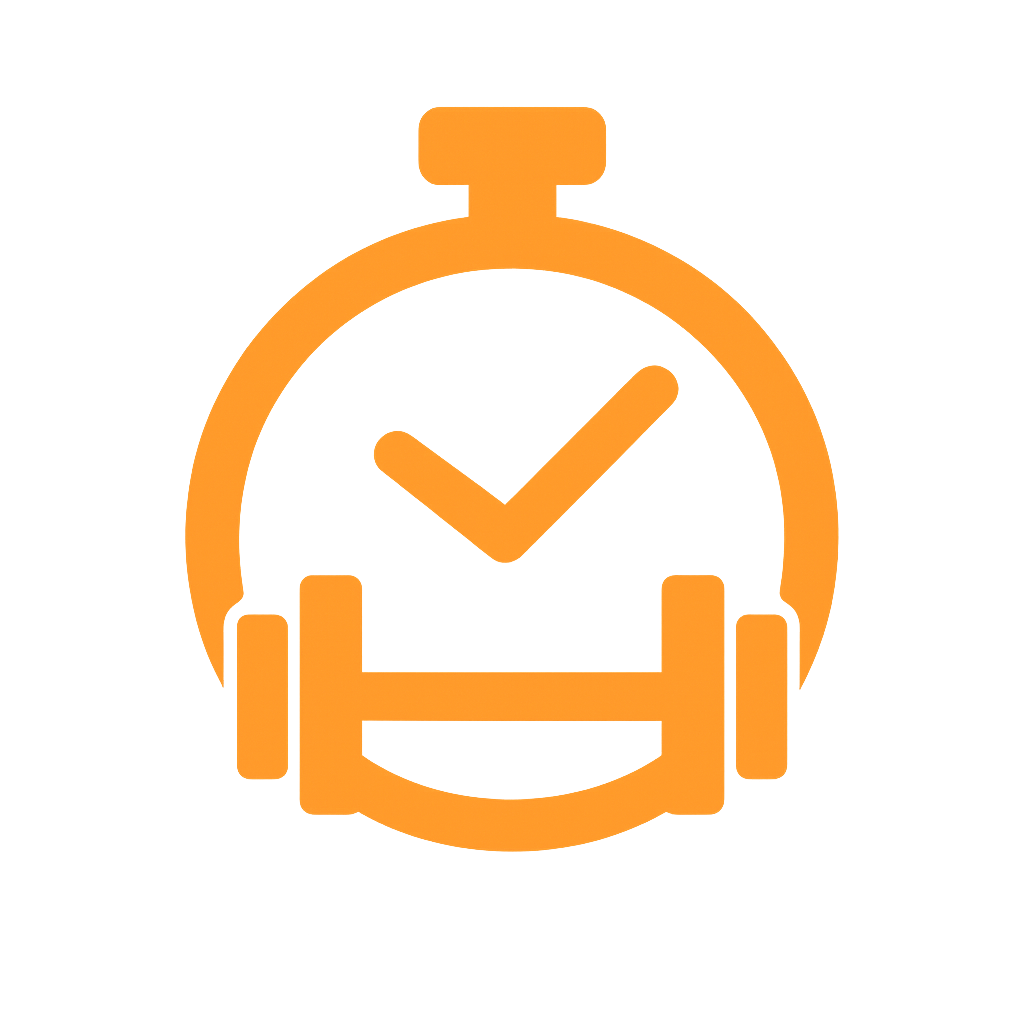
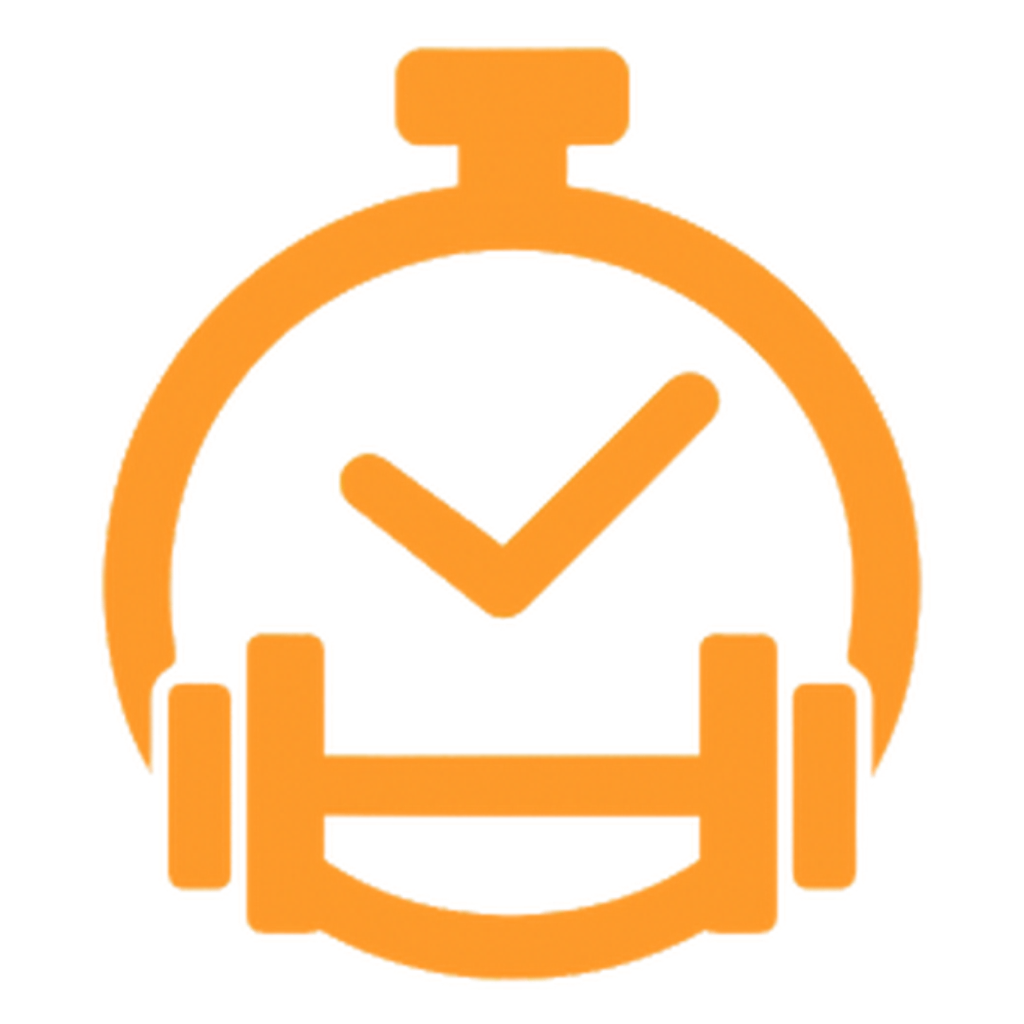
Cambio icono

Changed region(s): [[0.0938, 0.0312, 0.9062, 0.9688]]

diff --git a/create_untitled_icon.py b/create_untitled_icon.py
@@ -1,0 +1,121 @@
+#!/usr/bin/env python3
+"""
+Script para crear el icono Untitled Image - CrossFit Timer
+Cronómetro naranja con pesas
+"""
+
+from PIL import Image, ImageDraw
+import math
+
+def create_crossfit_timer_icon():
+    # Crear imagen 1024x1024 con fondo transparente
+    size = 1024
+    img = Image.new('RGBA', (size, size), (0, 0, 0, 0))
+    draw = ImageDraw.Draw(img)
+    
+    # Color naranja principal
+    orange = (255, 146, 43)  # #ff922b
+    orange_dark = (230, 120, 30)  # versión más oscura
+    white = (255, 255, 255)
+    
+    # Centro de la imagen
+    center_x, center_y = size // 2, size // 2
+    
+    # 1. Dibujar el cronómetro principal (círculo grande)
+    main_radius = 350
+    # Borde exterior del cronómetro
+    draw.ellipse([center_x - main_radius, center_y - main_radius, 
+                  center_x + main_radius, center_y + main_radius], 
+                 fill=orange, outline=orange_dark, width=8)
+    
+    # Interior blanco del cronómetro
+    inner_radius = 280
+    draw.ellipse([center_x - inner_radius, center_y - inner_radius,
+                  center_x + inner_radius, center_y + inner_radius],
+                 fill=white, outline=white)
+    
+    # 2. Dibujar el botón superior del cronómetro
+    button_width = 80
+    button_height = 120
+    button_top = center_y - main_radius - button_height + 20
+    draw.rounded_rectangle([center_x - button_width//2, button_top,
+                           center_x + button_width//2, button_top + button_height],
+                          radius=15, fill=orange, outline=orange_dark, width=4)
+    
+    # 3. Dibujar las manecillas del reloj (check mark / V)
+    # Manecilla corta (hacia abajo-derecha)
+    start_x, start_y = center_x - 60, center_y + 20
+    end_x, end_y = center_x, center_y + 80
+    draw.line([start_x, start_y, end_x, end_y], fill=orange, width=25)
+    
+    # Manecilla larga (hacia arriba-derecha) 
+    start_x, start_y = center_x, center_y + 80
+    end_x, end_y = center_x + 120, center_y - 40
+    draw.line([start_x, start_y, end_x, end_y], fill=orange, width=25)
+    
+    # 4. Dibujar las pesas (mancuernas) a los lados
+    # Pesa izquierda
+    weight_y = center_y + 200
+    weight_left_x = center_x - 280
+    
+    # Barra de la pesa izquierda
+    bar_width = 120
+    bar_height = 25
+    draw.rounded_rectangle([weight_left_x - bar_width//2, weight_y - bar_height//2,
+                           weight_left_x + bar_width//2, weight_y + bar_height//2],
+                          radius=8, fill=orange, outline=orange_dark, width=3)
+    
+    # Discos de la pesa izquierda
+    disc_radius = 45
+    # Disco izquierdo
+    draw.rounded_rectangle([weight_left_x - bar_width//2 - disc_radius, weight_y - disc_radius,
+                           weight_left_x - bar_width//2 + 15, weight_y + disc_radius],
+                          radius=8, fill=orange, outline=orange_dark, width=3)
+    # Disco derecho
+    draw.rounded_rectangle([weight_left_x + bar_width//2 - 15, weight_y - disc_radius,
+                           weight_left_x + bar_width//2 + disc_radius, weight_y + disc_radius],
+                          radius=8, fill=orange, outline=orange_dark, width=3)
+    
+    # Pesa derecha (simétrica)
+    weight_right_x = center_x + 280
+    
+    # Barra de la pesa derecha
+    draw.rounded_rectangle([weight_right_x - bar_width//2, weight_y - bar_height//2,
+                           weight_right_x + bar_width//2, weight_y + bar_height//2],
+                          radius=8, fill=orange, outline=orange_dark, width=3)
+    
+    # Discos de la pesa derecha
+    # Disco izquierdo
+    draw.rounded_rectangle([weight_right_x - bar_width//2 - disc_radius, weight_y - disc_radius,
+                           weight_right_x - bar_width//2 + 15, weight_y + disc_radius],
+                          radius=8, fill=orange, outline=orange_dark, width=3)
+    # Disco derecho
+    draw.rounded_rectangle([weight_right_x + bar_width//2 - 15, weight_y - disc_radius,
+                           weight_right_x + bar_width//2 + disc_radius, weight_y + disc_radius],
+                          radius=8, fill=orange, outline=orange_dark, width=3)
+    
+    # 5. Agregar algunos detalles del cronómetro
+    # Pequeños marcadores en el borde
+    for i in range(12):
+        angle = i * 30 * math.pi / 180  # cada 30 grados
+        x1 = center_x + (inner_radius - 20) * math.cos(angle)
+        y1 = center_y + (inner_radius - 20) * math.sin(angle)
+        x2 = center_x + (inner_radius - 40) * math.cos(angle)
+        y2 = center_y + (inner_radius - 40) * math.sin(angle)
+        draw.line([x1, y1, x2, y2], fill=orange, width=8)
+    
+    return img
+
+if __name__ == "__main__":
+    print("🎨 Creando icono Untitled Image - CrossFit Timer...")
+    
+    # Crear el icono
+    icon = create_crossfit_timer_icon()
+    
+    # Guardar en el escritorio
+    output_path = "/Users/10048099SAPP/Desktop/untitled_image_crossfit.png"
+    icon.save(output_path, "PNG")
+    
+    print(f"✅ Icono creado exitosamente: {output_path}")
+    print(f"📏 Tamaño: 1024x1024 pixels")
+    print("🏋♂ Listo para usar con el script de integración!")
